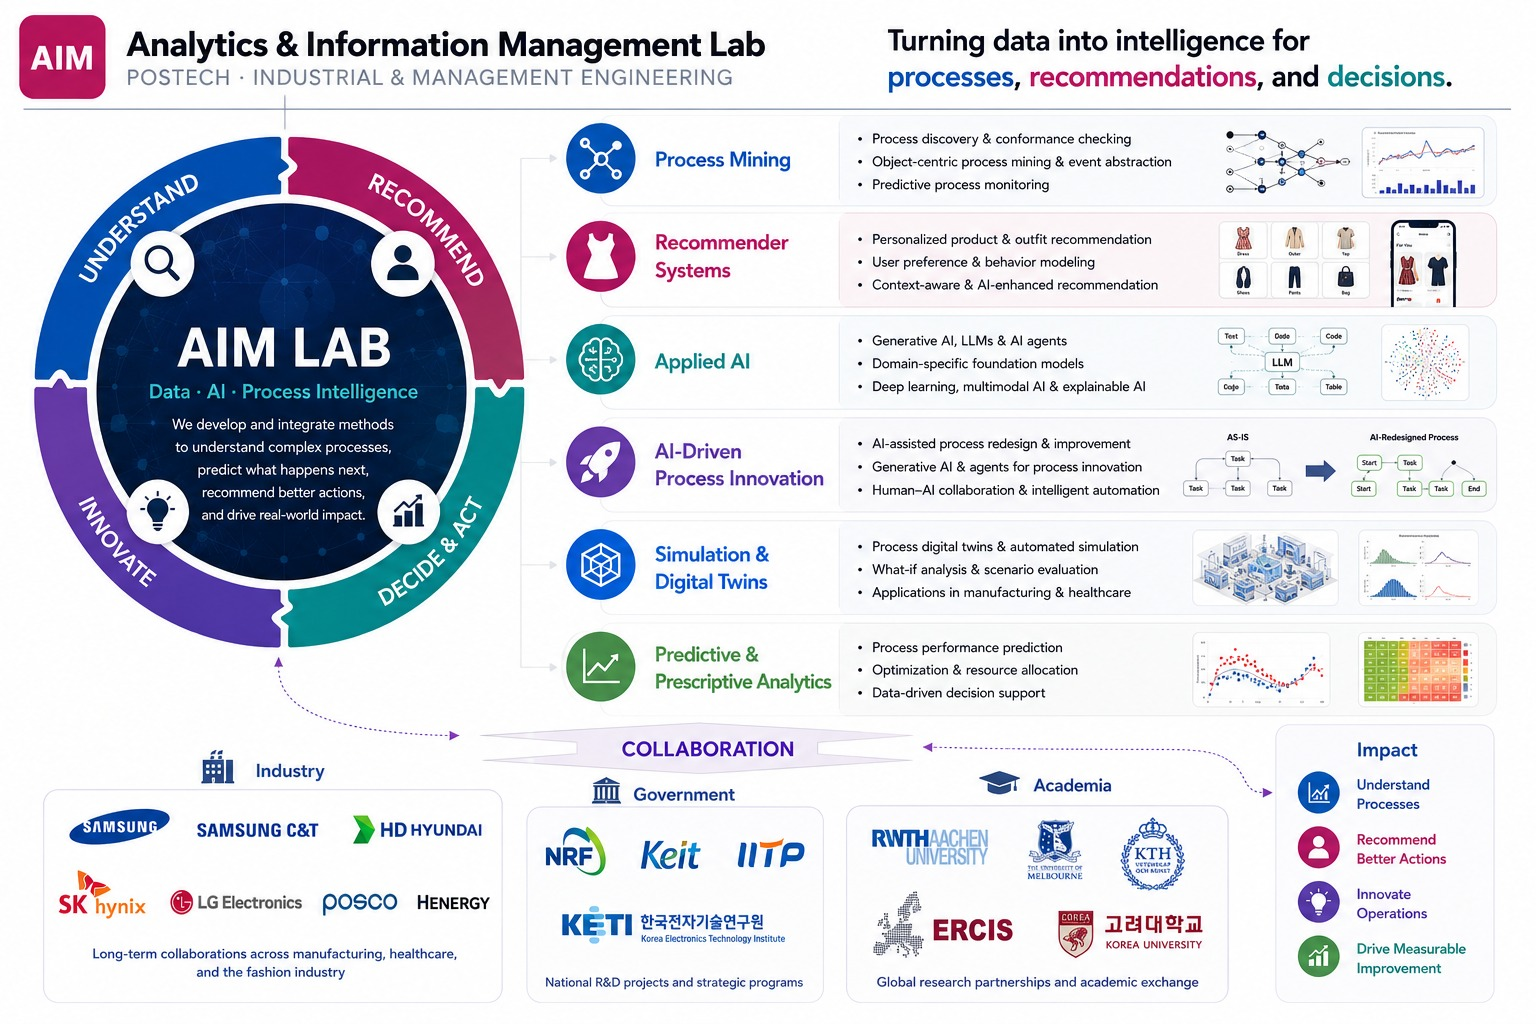
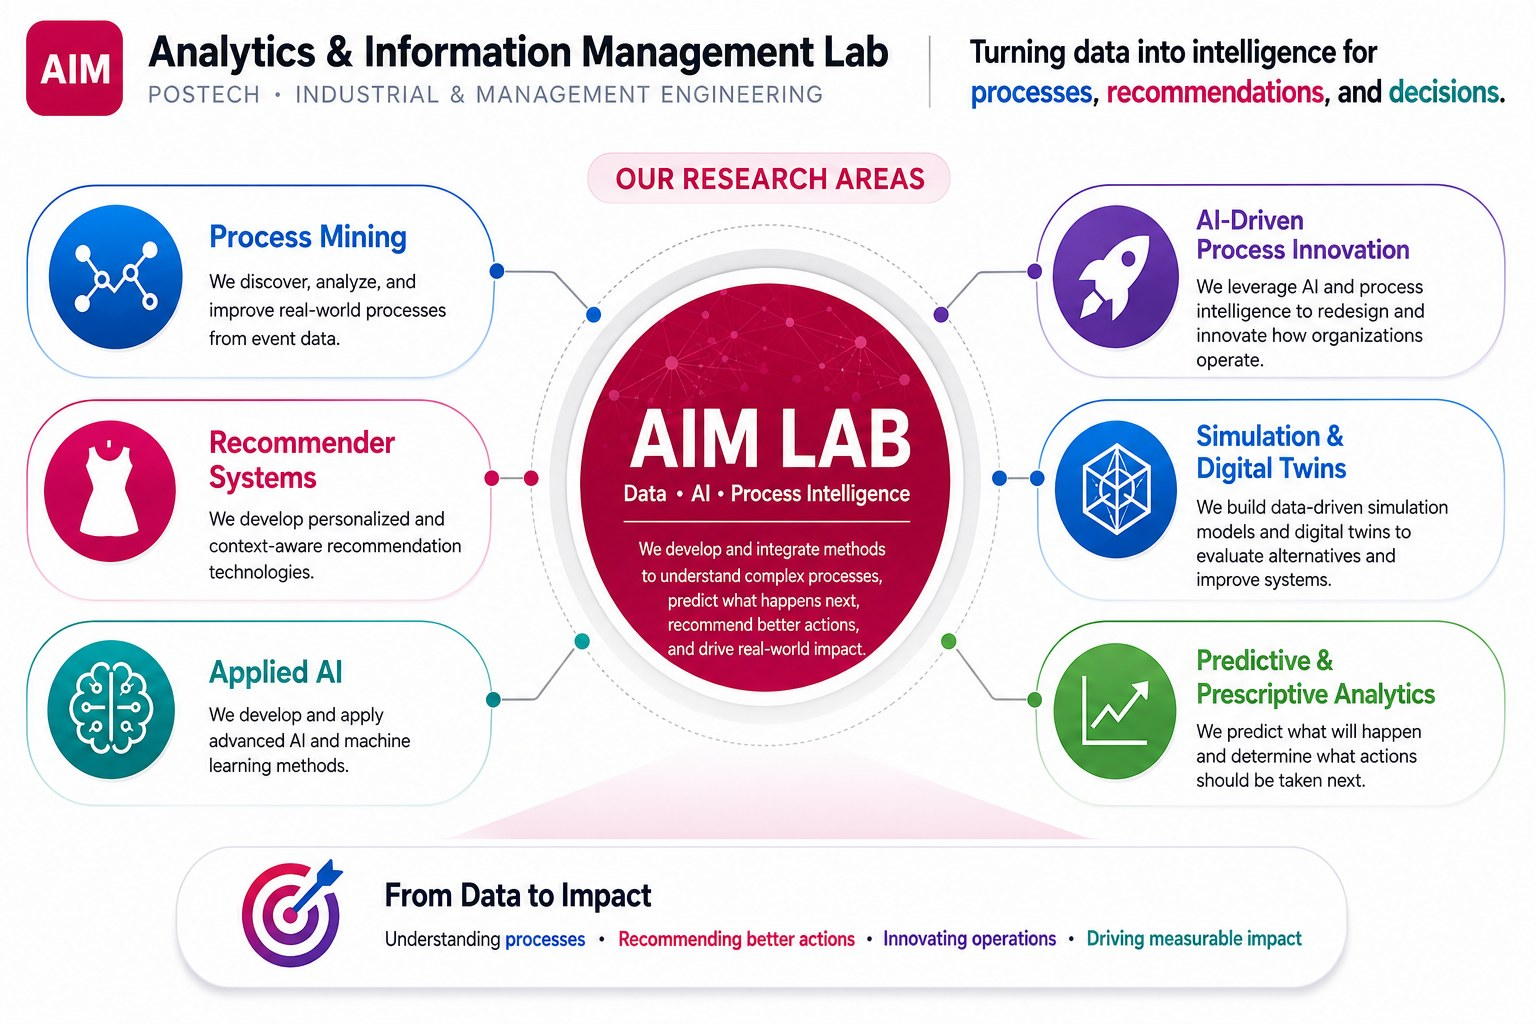
Replace the About the Lab overview figure

diff --git a/index.html b/index.html
@@ -105,7 +105,7 @@
         <picture>
           <source srcset="/assets/img/lab-overview.webp" type="image/webp">
           <img src="/assets/img/lab-overview.jpg" width="1536" height="1024" loading="lazy"
-               alt="Overview of the AIM Lab: an Understand&ndash;Recommend&ndash;Decide &amp; Act&ndash;Innovate cycle around the lab, its six research areas with example topics, and its industry, government and academic collaborators.">
+               alt="Overview of the AIM Lab: six research areas &mdash; Process Mining, Recommender Systems, Applied AI, AI-Driven Process Innovation, Simulation &amp; Digital Twins, and Predictive &amp; Prescriptive Analytics &mdash; arranged around the lab at the centre, leading to a From Data to Impact band underneath.">
         </picture>
       </a>
       <figcaption>Click to open the overview at full size.</figcaption>

diff --git a/_build/build.py b/_build/build.py
@@ -551,7 +551,7 @@ def build_index(journals, conferences, news):
         <picture>
           <source srcset="/assets/img/lab-overview.webp" type="image/webp">
           <img src="/assets/img/lab-overview.jpg" width="1536" height="1024" loading="lazy"
-               alt="Overview of the AIM Lab: an Understand&ndash;Recommend&ndash;Decide &amp; Act&ndash;Innovate cycle around the lab, its six research areas with example topics, and its industry, government and academic collaborators.">
+               alt="Overview of the AIM Lab: six research areas &mdash; Process Mining, Recommender Systems, Applied AI, AI-Driven Process Innovation, Simulation &amp; Digital Twins, and Predictive &amp; Prescriptive Analytics &mdash; arranged around the lab at the centre, leading to a From Data to Impact band underneath.">
         </picture>
       </a>
       <figcaption>Click to open the overview at full size.</figcaption>
